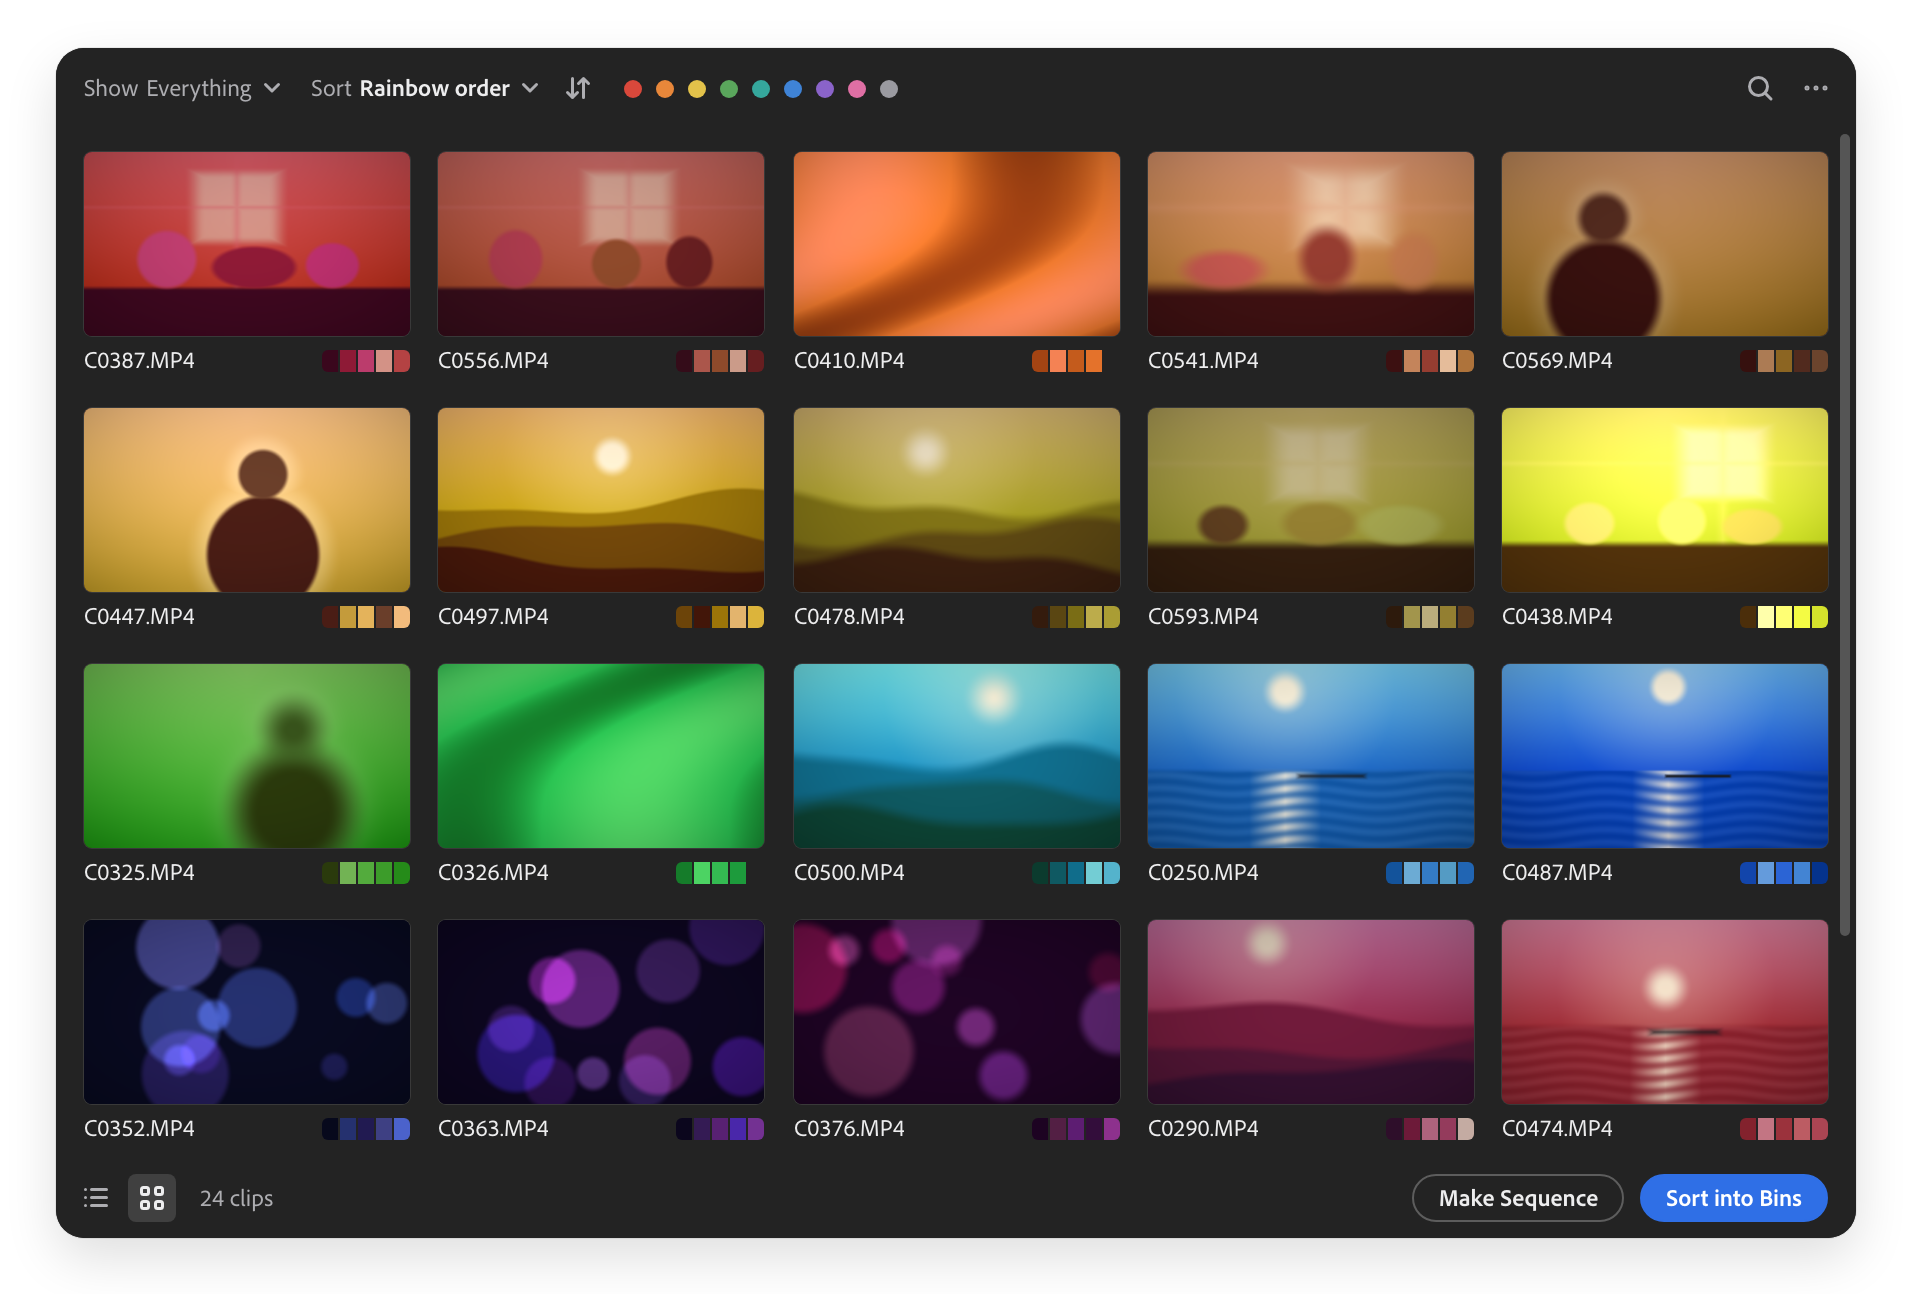
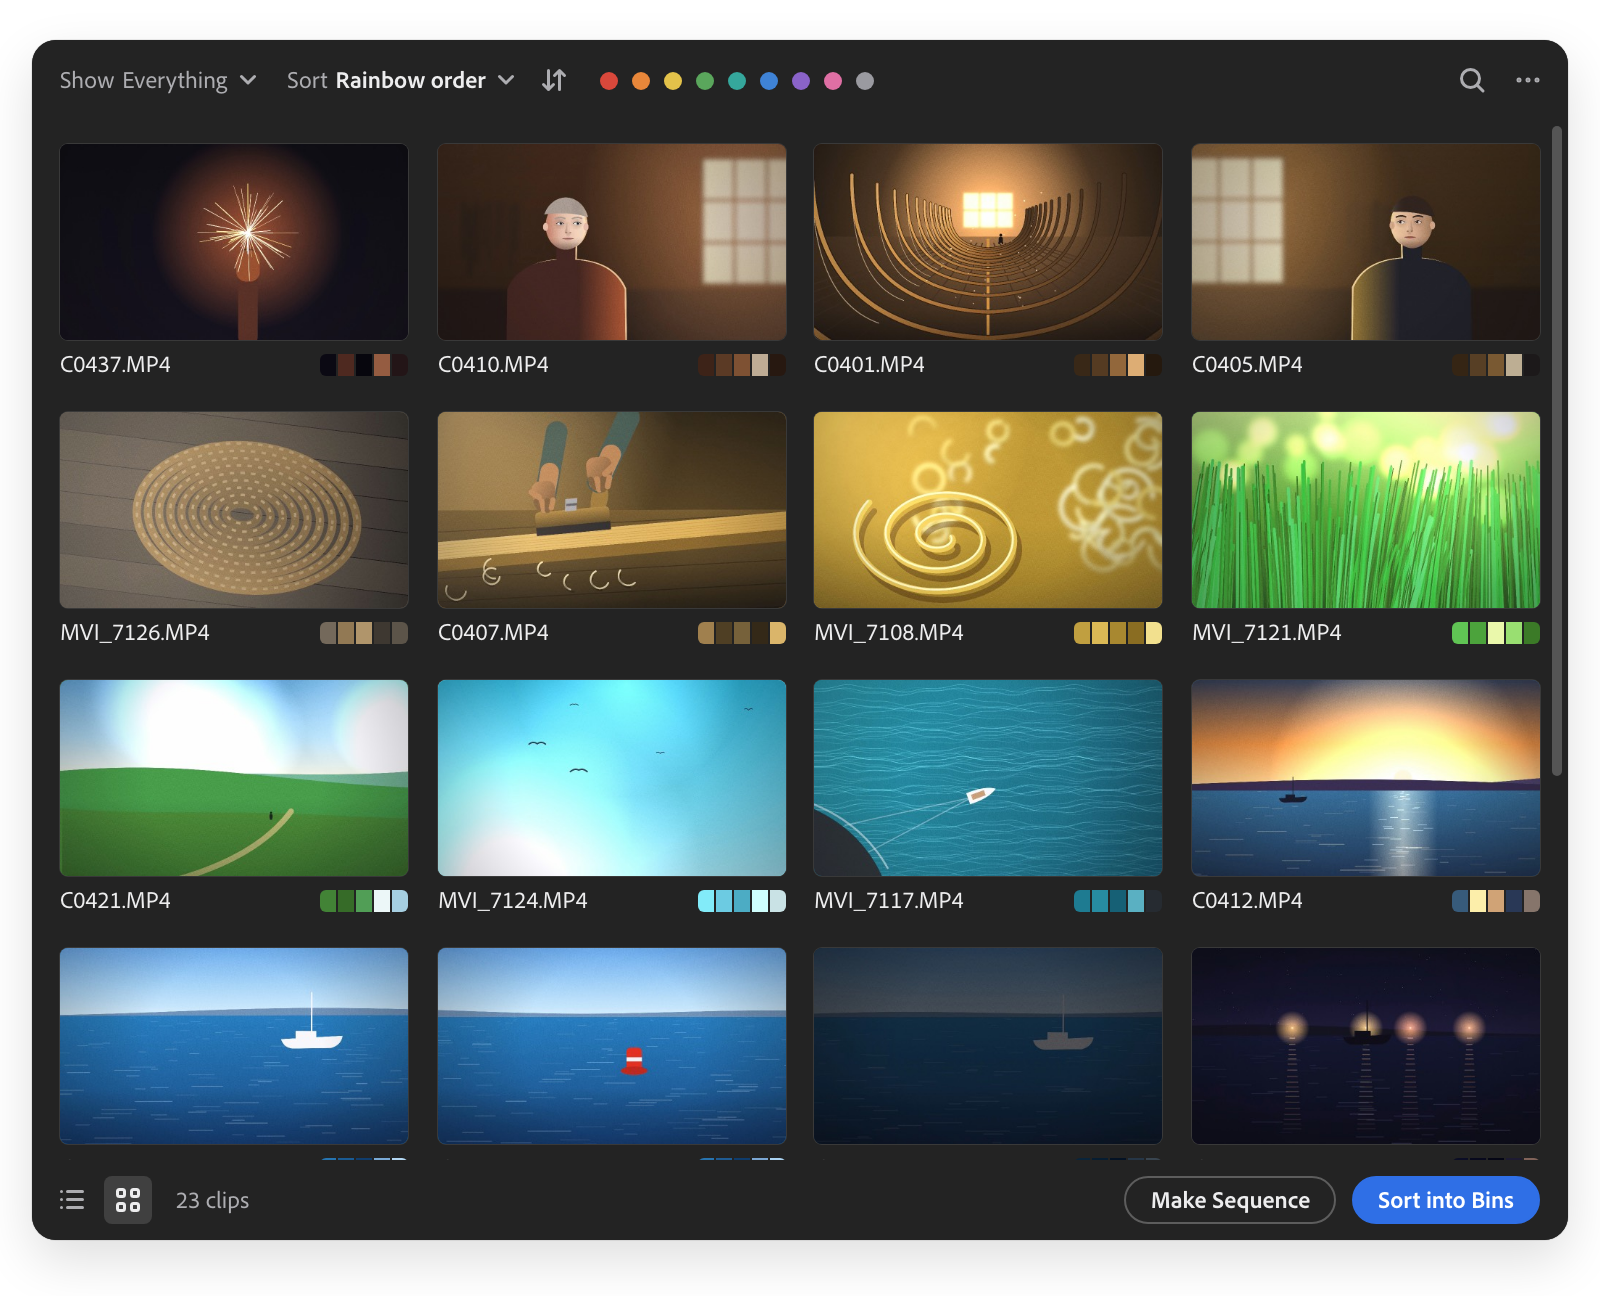
README: a new still and a loop of Scan, Show and Make Sequence, made from an invented shoot that Select really scanned; the old stills and the script that drew them go; the privacy scan reads WebP metadata

diff --git a/README.md b/README.md
@@ -3,7 +3,7 @@
 A Premiere Pro panel that sorts and searches your clips in seconds. Everything runs on your Mac.
 
 <p align="center">
-  <img src="docs/media/panel-grid-dark.png" width="760" alt="The Select panel in grid view, dark, with 24 invented clips sorted by colour.">
+  <img src="docs/media/panel-grid-dark.png" width="760" alt="The Select panel in grid view, dark, with 23 clips of an invented boat-building shoot sorted by colour.">
 </p>
 
 Press **Scan**. Select reads every clip: the picture, the sound and the camera's details. **Show** picks which clips you see, **Sort** puts them in order, and search finds what is in them.
@@ -38,7 +38,11 @@ To remove Select, quit Premiere and delete `com.skyfallstatus.select` from `~/Li
 
 1. Select clips or bins in the Project panel, or nothing for the whole project, and press **Scan**. The line under the toolbar says what it will read. **Scan a Folder…** in the **···** menu scans a folder on disk.
 2. **Show**, a colour dot and search narrow what's on screen, and **Sort** puts it in order. In the grid, hover a picture for a second, then move across it to scrub through the clip. Right-click a clip for a menu.
-3. **Make Sequence** and **Sort into Bins** write to the project: the clips you selected in Select, or every clip on screen. **Label** is in the right-click menu. **Undo** in the **···** menu takes it back.
+3. **Make Sequence** and **Sort into Bins** write to the project: the clips you selected in Select, or every clip on screen. **Label** is in the right-click menu. **Undo**, right after or later in the **···** menu, takes it back.
+
+<p align="center">
+  <img src="docs/media/scan-show-sequence.webp" width="760" alt="Select scans 74 clips, sorts them by colour, shows only the interviews, and makes a sequence of them.">
+</p>
 
 Results come back when the panel opens again on the same project. Another project needs its own scan.
 
